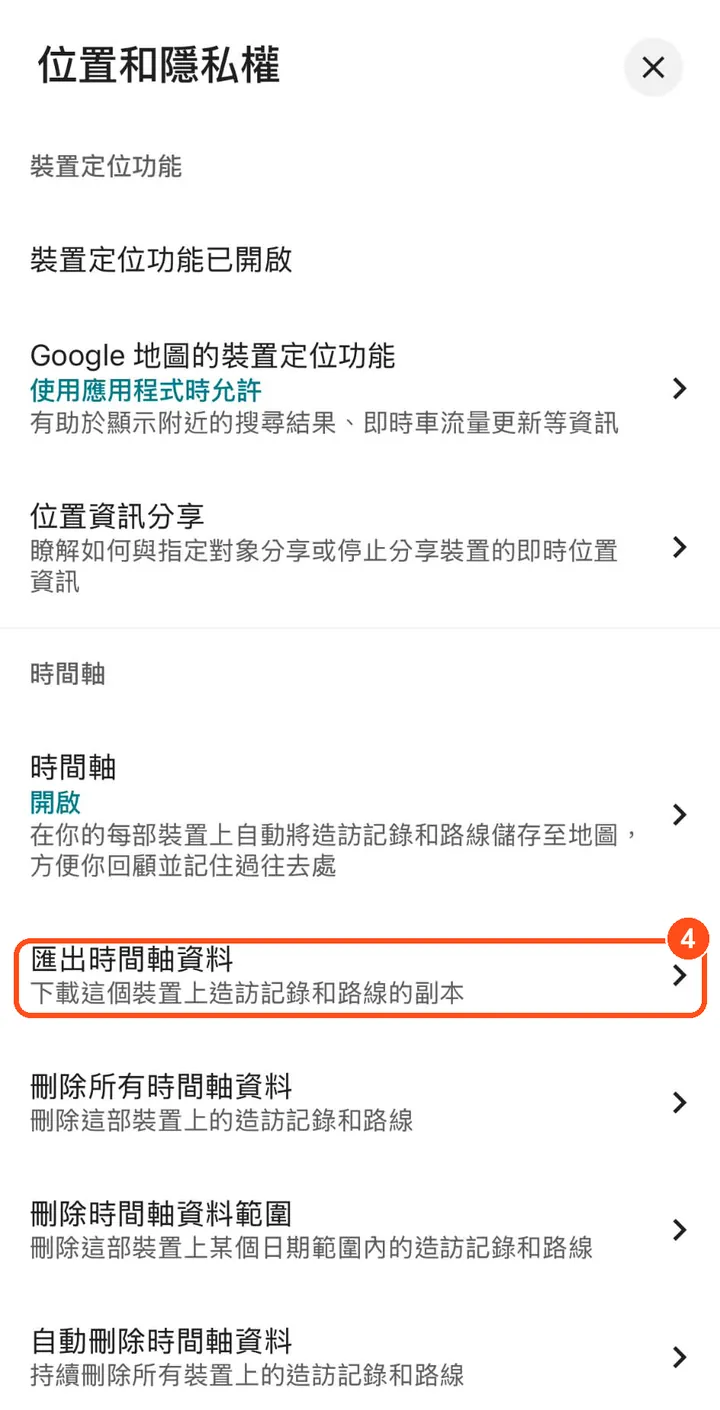
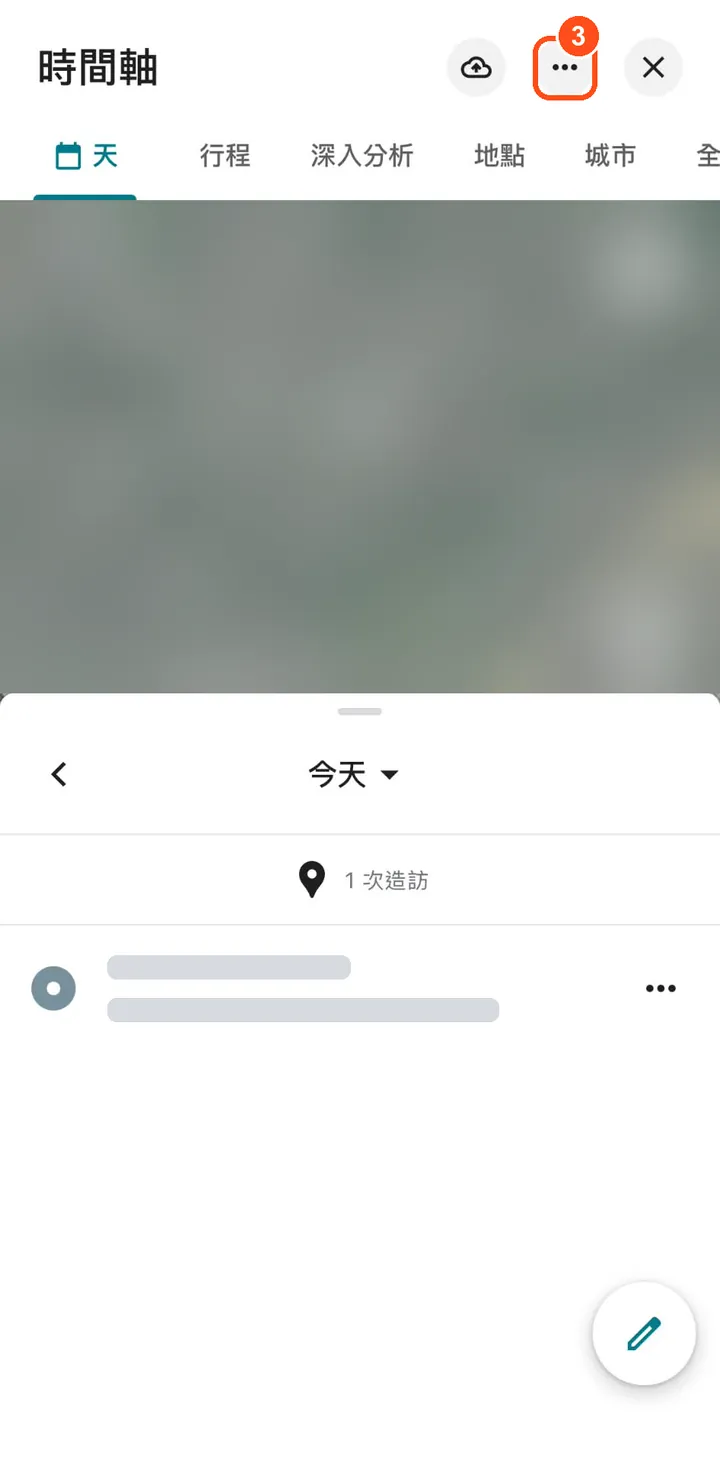
時間軸教學截圖更新：改成 8 張同尺寸（翻頁不跳動）、8 頁編號 1–9 連續；個資改成實心遮蓋＋示意圖形（姓名、Email、大頭貼、地址、聯絡人、照片、檔名），地圖重度模糊疊灰

diff --git a/js/guide.js b/js/guide.js
@@ -5,29 +5,33 @@
 
 export const GUIDE_KEY = 'fog-guide-timeline-seen';
 
-const n = k => `<span class="gd-n">${k}</span>`;   // 文字裡的編號，對應截圖上的橘色圓點（整份教學連續 1–8）
+const n = k => `<span class="gd-n">${k}</span>`;   // 文字裡的編號，對應截圖上的橘色圓點（整份教學連續 1–9）
 
 // 目前只有 iPhone 截圖，Android 也先看這份（步驟大致相同）；有 Android 截圖後再分兩套
-// img：[檔名, 寬, 高]（寬高先寫好，避免圖載入時版面跳動）；圖上的編號在 tools/make_guide_images.py
+// img：img/guide/ 的檔名；8 張同尺寸（720×1472，見 tools/make_guide_images.py），圖上的編號也在那裡
 const PAGES = [
-    { img: ['tl-ios-1', 720, 683], title: '打開 Google 地圖 App',
-      text: `點右上角的<b>大頭貼</b>，選 ${n(1)}「<b>你的時間軸</b>」。` },
-    { img: ['tl-ios-2', 720, 1427], title: '進入設定',
-      text: `點右上角的 ${n(2)}「<b>⋯</b>」，再點 ${n(3)}「<b>位置和隱私權設定</b>」。` },
-    { img: ['tl-ios-3', 720, 1410], title: '匯出時間軸資料',
-      text: `往下找到 ${n(4)}「<b>匯出時間軸資料</b>」，點進去。` },
-    { img: ['tl-ios-4', 720, 241], title: '儲存到檔案',
-      text: `跳出分享選單後，點 ${n(5)}「<b>儲存到檔案</b>」。` },
-    { img: ['tl-ios-5', 720, 1472], title: '選資料夾，按儲存',
-      text: `${n(6)} 選一個你找得到的資料夾（點資料夾名稱可以換，例如「我的 iPhone」），再按 ${n(7)}「<b>儲存</b>」。檔名不用改。` },
-    { img: ['tl-ios-6', 720, 542], title: '回到這裡選檔案', pick: true,
-      text: `按下面的「<b>選擇檔案</b>」→「<b>選擇檔案</b>」，到剛剛存的資料夾，點 ${n(8)} <b>Timeline.json</b>。` },
+    { img: 'tl-ios-1', title: '打開 Google 地圖 App',
+      text: `點右上角的 ${n(1)} <b>大頭貼</b>。` },
+    { img: 'tl-ios-2', title: '你的時間軸',
+      text: `點 ${n(2)}「<b>你的時間軸</b>」。` },
+    { img: 'tl-ios-3', title: '打開選單',
+      text: `點右上角的 ${n(3)}「<b>⋯</b>」。` },
+    { img: 'tl-ios-4', title: '位置和隱私權設定',
+      text: `點 ${n(4)}「<b>位置和隱私權設定</b>」。` },
+    { img: 'tl-ios-5', title: '匯出時間軸資料',
+      text: `往下找到 ${n(5)}「<b>匯出時間軸資料</b>」，點進去。` },
+    { img: 'tl-ios-6', title: '儲存到檔案',
+      text: `跳出分享選單後，點 ${n(6)}「<b>儲存到檔案</b>」。` },
+    { img: 'tl-ios-7', title: '選資料夾，按儲存',
+      text: `${n(7)} 選一個你找得到的資料夾（點資料夾名稱可以換，例如「我的 iPhone」），再按 ${n(8)}「<b>儲存</b>」。檔名不用改。` },
+    { img: 'tl-ios-8', title: '回到這裡選檔案', pick: true,
+      text: `按下面的「<b>選擇檔案</b>」，到剛剛存的資料夾，點 ${n(9)} <b>Timeline.json</b>。` },
 ];
 
 let dlg = null, onPick = null;
 
 function pageHtml(p, i, total) {
-    const media = `<img class="gd-img${p.img[2] / p.img[1] < 0.5 ? ' wide' : ''}" src="img/guide/${p.img[0]}.webp?v=20261125b" width="${p.img[1]}" height="${p.img[2]}" alt="" loading="lazy" decoding="async">`;
+    const media = `<img class="gd-img" src="img/guide/${p.img}.webp?v=20261125c" width="720" height="1472" alt="" loading="lazy" decoding="async">`;
     return `<section class="gd-page" aria-roledescription="slide" aria-label="${i + 1} / ${total}">
         <div class="gd-media">${media}</div>
         <div class="gd-body">
@@ -35,7 +39,7 @@ function pageHtml(p, i, total) {
             <h3>${p.title}</h3>
             <p>${p.text}</p>
             ${p.pick ? `<button type="button" class="app-btn primary gd-pick">選擇檔案</button>
-                <p class="gd-note">在電腦上用：先把手機存的檔案傳到電腦（AirDrop、雲端硬碟、傳訊息給自己都可以），再選檔或拖曳到「Google 時間軸」卡片。</p>` : ''}
+                <p class="gd-note">在電腦上用：先把檔案從手機傳到電腦（AirDrop、雲端硬碟都可以）再選檔。</p>` : ''}
         </div>
     </section>`;
 }

diff --git a/index.html b/index.html
@@ -14,11 +14,11 @@
 
 <link rel="stylesheet" href="css/theme.css?v=20261120">
 <link rel="stylesheet" href="css/explore.css?v=20261121g">
-<link rel="stylesheet" href="css/app.css?v=20261125b">
+<link rel="stylesheet" href="css/app.css?v=20261125c">
 <link rel="stylesheet" href="css/report.css?v=20261121j">
 <!-- 主題在畫面出現前套用，避免先閃白 -->
 <script src="js/theme.js?v=20261120"></script>
-<script type="module" src="js/app.js?v=20261125c"></script>
+<script type="module" src="js/app.js?v=20261125d"></script>
 </head>
 <body>
 

diff --git a/css/app.css b/css/app.css
@@ -1151,14 +1151,11 @@ a.app-btn {
     width: auto;
     max-width: 100%;
     height: auto;
-    max-height: min(44dvh, 400px);
+    max-height: min(48dvh, 440px);
+    aspect-ratio: 720 / 1472;   /* 8 張同尺寸：圖還沒載入就先占好位置，翻頁不跳動 */
     border: 1px solid var(--c-border);
     border-radius: 10px;
     background: var(--c-surface-2);
-}
-
-.gd-img.wide {
-    width: 100%;
 }
 
 

diff --git a/tools/make_guide_images.py b/tools/make_guide_images.py
@@ -1,6 +1,9 @@
-# 時間軸教學截圖加工：模糊隱私區域、裁掉狀態列、加橘色標記框與編號，輸出到 img/guide/
-# 原始截圖放 test/guide_src/（git 忽略，不公開）
+# 時間軸教學截圖加工：遮蓋個資、裁掉狀態列、加橘色標記框與編號，輸出到 img/guide/
+# 原始截圖放 test/guide_src/1.jpg～8.jpg（iPhone 全螢幕截圖 946×2047；git 忽略，不公開）
 # 用法：python tools/make_guide_images.py
+#
+# 個資一律「蓋掉」而不只是模糊：姓名、Email、地址、聯絡人、檔名、照片 → 實心色塊＋灰色示意圖形；
+# 地圖 → 重度模糊再疊一層灰，看不出街道。全部輸出成同一尺寸，翻頁時版面不跳動。
 import io
 import time
 from pathlib import Path
@@ -9,72 +12,173 @@ from PIL import Image, ImageDraw, ImageFilter, ImageFont
 ROOT = Path(__file__).resolve().parent.parent
 SRC = ROOT / 'test' / 'guide_src'
 OUT = ROOT / 'img' / 'guide'
-ORANGE = (255, 77, 26)   # 同 css/theme.css 的 --c-accent（淺色）
-WIDTH = 720           # 輸出寬度
+ORANGE = (255, 77, 26)          # 同 css/theme.css 的 --c-accent（淺色）
+GHOST = (214, 218, 224)         # 示意圖形的灰
+WIDTH = 720                     # 輸出寬度
+CROP = (0, 113, 946, 2047)      # 裁掉狀態列；8 張同一範圍 → 同一尺寸
 FONT = 'C:/Windows/Fonts/arialbd.ttf'
+K = 946 / 924                   # 下面座標以 924 寬的預覽量測，乘上 K 換成原圖像素
 
-# 編號整份教學連續（1–8），和 js/guide.js 文字裡的編號對應
-# 每張：來源、模糊區 (x0,y0,x1,y1)、標記 [(編號, 框)]、裁切 (x0,y0,x1,y1)；座標皆為原圖像素
+# 操作（依序執行；keep 先存原圖、最後貼回）：
+#   ('map', box)                 地圖：重度模糊＋疊灰
+#   ('blur', box)                一般模糊（縮圖、App 圖示）
+#   ('fill', box, (x, y))        用 (x, y) 那點的顏色實心蓋掉
+#   ('round', box, (x, y))       同上，但畫成膠囊形（重畫搜尋列）
+#   ('text', box)                示意文字條（兩條灰色圓角條）
+#   ('avatar', (cx, cy), r)      示意大頭貼
+#   ('tile', box)                示意檔案／照片方塊（方塊＋下方兩條字）
+#   ('keep', box)                這塊保留原樣（例如地圖上的搜尋列）
+# 標記：(編號, box)；編號整份教學連續（1–9），和 js/guide.js 文字裡的編號對應
 JOBS = {
-    'tl-ios-1': dict(src='1.jpg', blur=[], marks=[(1, (48, 585, 1122, 752))], crop=(0, 0, 1170, 1110)),
-    'tl-ios-2': dict(src='2.jpg', blur=[(0, 372, 946, 1030)],
-                     marks=[(2, (696, 158, 788, 246)), (3, (18, 1266, 928, 1386))], crop=(0, 115, 946, 1990)),
-    'tl-ios-3': dict(src='3.jpg', blur=[],
-                     marks=[(4, (18, 1346, 928, 1450))], crop=(0, 113, 946, 1966)),
-    'tl-ios-4': dict(src='4.jpg', blur=[], marks=[(5, (606, 36, 820, 350))], crop=(0, 0, 1170, 392)),
-    'tl-ios-5': dict(src='5.jpg', blur=[(0, 405, 946, 1808), (0, 1980, 946, 2047)],
-                     marks=[(6, (150, 160, 412, 250)), (7, (738, 148, 914, 262))], crop=(0, 113, 946, 2047)),
-    # 檔案縮圖裡是 JSON 內容（可能有座標）、左邊檔名是編碼過的中文：都模糊
-    'tl-ios-6': dict(src='6.jpg', blur=[(0, 480, 420, 1005), (842, 506, 1060, 760)],
-                     marks=[(8, (812, 488, 1124, 950))], crop=(0, 125, 1170, 1005)),
+    # 1 地圖首頁：點右上角大頭貼
+    'tl-ios-1': dict(src='1.jpg', ops=[
+        ('keep', (60, 140, 780, 236)),                 # 搜尋列內容（不含大頭貼）
+        ('map', (0, 0, 924, 1650)),
+        ('round', (30, 132, 895, 244), (450, 1700)),   # 重畫搜尋列底（圓角，不露出地圖）
+        ('avatar', (838, 187), 40),
+    ], marks=[(1, (792, 135, 886, 240))]),
+    # 2 帳戶選單：你的時間軸
+    'tl-ios-2': dict(src='2.jpg', ops=[
+        ('map', (0, 0, 924, 150)),
+        ('fill', (240, 290, 720, 420), (600, 280)),    # 姓名、Email
+        ('text', (258, 312, 560, 400)),
+        ('fill', (70, 280, 225, 425), (600, 280)),     # 大頭貼
+        ('avatar', (143, 348), 66),
+    ], marks=[(2, (38, 938, 886, 1072))]),
+    # 3 時間軸：右上角 ⋯
+    'tl-ios-3': dict(src='3.jpg', ops=[
+        ('map', (0, 367, 924, 1000)),
+        ('fill', (125, 1315, 760, 1445), (300, 1500)), # 造訪地點、地址、時間
+        ('text', (138, 1325, 640, 1435)),
+    ], marks=[(3, (684, 156, 766, 238))]),
+    # 4 ⋯ 選單：位置和隱私權設定
+    'tl-ios-4': dict(src='4.jpg', ops=[
+        ('map', (0, 367, 924, 1000)),
+    ], marks=[(4, (18, 1238, 906, 1352))]),
+    # 5 位置和隱私權：匯出時間軸資料
+    'tl-ios-5': dict(src='5.jpg', ops=[], marks=[(5, (18, 1310, 906, 1418))]),
+    # 6 分享選單：儲存到檔案
+    'tl-ios-6': dict(src='6.jpg', ops=[
+        ('blur', (80, 858, 192, 1018)),                # 檔案縮圖（JSON 內容）
+        ('fill', (24, 1062, 902, 1362), (460, 1060)),  # 聯絡人照片、名字、群組
+        *[op for x in (160, 361, 563, 765) for op in (('avatar', (x, 1165), 74), ('text', (x - 55, 1258, x + 55, 1302)))],
+        ('blur', (282, 1405, 442, 1625)),              # 第三方 App
+    ], marks=[(6, (478, 1690, 648, 1950))]),
+    # 7 存檔：選資料夾、按儲存
+    'tl-ios-7': dict(src='7.jpg', ops=[
+        ('fill', (0, 395, 924, 1765), (460, 390)),     # 照片縮圖、檔名
+        *[('tile', (x, y, x + 200, y + 150)) for y in (460, 930, 1400) for x in (64, 362, 660)],
+        ('blur', (112, 1786, 204, 1910)),              # 檔案縮圖
+        ('fill', (66, 1890, 858, 1935), (560, 1800)),  # 存檔列是半透明的，下緣透出照片
+        ('fill', (0, 1925, 924, 2000), (460, 390)),    # 存檔列下方、兩側露出的照片
+        ('fill', (0, 1765, 64, 1925), (460, 390)),
+        ('fill', (860, 1765, 924, 1925), (460, 390)),
+    ], marks=[(7, (150, 160, 412, 250)), (8, (722, 145, 892, 258))]),
+    # 8 選檔：Timeline.json
+    'tl-ios-8': dict(src='8.jpg', ops=[
+        ('fill', (20, 390, 300, 800), (320, 820)),     # 其他檔案（第一列左）
+        ('tile', (90, 400, 240, 600)),
+        ('fill', (0, 840, 924, 2000), (320, 820)),     # 第二列以後全部
+        *[('tile', (x, y, x + 150, y + 200)) for y in (870, 1340) for x in (90, 385, 685)],
+        ('blur', (686, 398, 838, 600)),                # Timeline.json 縮圖（JSON 內容）
+    ], marks=[(9, (632, 392, 892, 748))]),
 }
 
 
-def blur(img, box):
+def px(v):
+    return tuple(round(c * K) for c in v)
+
+
+def do_map(img, box):
     region = img.crop(box)
     w, h = region.size
-    # 先縮小再放大＋高斯模糊：人臉、地名、街道都看不出來
-    small = region.resize((max(1, w // 24), max(1, h // 24)), Image.BILINEAR)
-    region = small.resize((w, h), Image.BILINEAR).filter(ImageFilter.GaussianBlur(18))
+    small = region.resize((max(1, w // 48), max(1, h // 48)), Image.BILINEAR)
+    region = small.resize((w, h), Image.BILINEAR).filter(ImageFilter.GaussianBlur(30))
+    region = Image.blend(region, Image.new('RGB', (w, h), (150, 158, 150)), 0.45)
     img.paste(region, box[:2])
 
 
-def mark(draw, n, box, scale):
-    lw = max(4, round(7 * scale))
-    draw.rounded_rectangle(box, radius=round(22 * scale), outline=ORANGE, width=lw)
-    r = round(30 * scale)
+def do_blur(img, box):
+    region = img.crop(box)
+    w, h = region.size
+    small = region.resize((max(1, w // 16), max(1, h // 16)), Image.BILINEAR)
+    img.paste(small.resize((w, h), Image.BILINEAR).filter(ImageFilter.GaussianBlur(10)), box[:2])
+
+
+def bars(draw, box):
+    x0, y0, x1, y1 = box
+    h = (y1 - y0) / 2
+    r = round(h * 0.22)
+    draw.rounded_rectangle((x0, y0 + h * 0.2, x0 + (x1 - x0) * 0.62, y0 + h * 0.75), radius=r, fill=GHOST)
+    draw.rounded_rectangle((x0, y0 + h * 1.2, x1, y0 + h * 1.75), radius=r, fill=GHOST)
+
+
+def avatar(draw, c, r):
+    cx, cy = c
+    draw.ellipse((cx - r, cy - r, cx + r, cy + r), fill=GHOST)
+    hr = r * 0.36   # 頭
+    draw.ellipse((cx - hr, cy - r * 0.55, cx + hr, cy - r * 0.55 + hr * 2), fill='white')
+    draw.chord((cx - r * 0.62, cy + r * 0.2, cx + r * 0.62, cy + r * 1.3), 180, 360, fill='white')
+
+
+def tile(draw, box):
+    x0, y0, x1, y1 = box
+    th = (y1 - y0) * 0.68
+    draw.rounded_rectangle((x0, y0, x1, y0 + th), radius=round((x1 - x0) * 0.06), fill=GHOST)
+    bars(draw, (x0 + (x1 - x0) * 0.1, y0 + th + (y1 - y0) * 0.05, x1 - (x1 - x0) * 0.1, y1))
+
+
+def mark(draw, n, box):
+    lw = 7
+    draw.rounded_rectangle(box, radius=22, outline=ORANGE, width=lw)
+    r = 30
     # 圓點放在框的右上角（壓在框線上），不蓋到框內文字
-    cx, cy = box[2] - round(24 * scale), box[1]
-    draw.ellipse((cx - r, cy - r, cx + r, cy + r), fill=ORANGE, outline='white', width=max(3, lw // 2))
-    font = ImageFont.truetype(FONT, round(36 * scale))
-    draw.text((cx, cy), str(n), fill='white', font=font, anchor='mm')
+    cx, cy = box[2] - 24, box[1]
+    draw.ellipse((cx - r, cy - r, cx + r, cy + r), fill=ORANGE, outline='white', width=4)
+    draw.text((cx, cy), str(n), fill='white', font=ImageFont.truetype(FONT, 36), anchor='mm')
+
+
+def make(name, job):
+    img = Image.open(SRC / job['src']).convert('RGB')
+    assert img.size == (946, 2047), f"{job['src']} 尺寸 {img.size}，座標是照 946×2047 量的"
+    orig = img.copy()
+    keeps = []
+    draw = ImageDraw.Draw(img)
+    for op in job['ops']:
+        kind, a = op[0], op[1]
+        if kind == 'keep': keeps.append(px(a))
+        elif kind == 'map': do_map(img, px(a))
+        elif kind == 'blur': do_blur(img, px(a))
+        elif kind == 'fill': draw.rectangle(px(a), fill=orig.getpixel(px(op[2])))
+        elif kind == 'round':
+            b = px(a)
+            draw.rounded_rectangle(b, radius=(b[3] - b[1]) // 2, fill=orig.getpixel(px(op[2])))
+        elif kind == 'text': bars(draw, px(a))
+        elif kind == 'avatar': avatar(draw, px(a), round(op[2] * K))
+        elif kind == 'tile': tile(draw, px(a))
+    for b in keeps:
+        img.paste(orig.crop(b), b[:2])
+    for n, box in job['marks']:
+        mark(draw, n, px(box))
+    img = img.crop(CROP)
+    img = img.resize((WIDTH, round(img.height * WIDTH / img.width)), Image.LANCZOS)
+    buf = io.BytesIO()
+    img.save(buf, 'WEBP', quality=80, method=6)   # 不帶 EXIF／中繼資料
+    # Windows 上檔案偶爾被其他程式短暫鎖住（防毒、預覽），重試幾次
+    for i in range(5):
+        try:
+            (OUT / f'{name}.webp').write_bytes(buf.getvalue())
+            break
+        except OSError:
+            if i == 4: raise
+            time.sleep(0.5)
+    print(name, img.size, len(buf.getvalue()), 'bytes')
 
 
 def main():
     OUT.mkdir(parents=True, exist_ok=True)
-    for name, j in JOBS.items():
-        img = Image.open(SRC / j['src']).convert('RGB')
-        for b in j['blur']:
-            blur(img, b)
-        draw = ImageDraw.Draw(img)
-        scale = img.width / 946
-        for n, box in j['marks']:
-            mark(draw, n, box, scale)
-        img = img.crop(j['crop'])
-        if img.width > WIDTH:
-            img = img.resize((WIDTH, round(img.height * WIDTH / img.width)), Image.LANCZOS)
-        # 不帶 EXIF／中繼資料
-        buf = io.BytesIO()
-        img.save(buf, 'WEBP', quality=80, method=6)
-        # Windows 上檔案偶爾被其他程式短暫鎖住（防毒、預覽），重試幾次
-        for i in range(5):
-            try:
-                (OUT / f'{name}.webp').write_bytes(buf.getvalue())
-                break
-            except OSError:
-                if i == 4: raise
-                time.sleep(0.5)
-        print(name, img.size, (OUT / f'{name}.webp').stat().st_size, 'bytes')
+    for name, job in JOBS.items():
+        make(name, job)
 
 
 if __name__ == '__main__':
